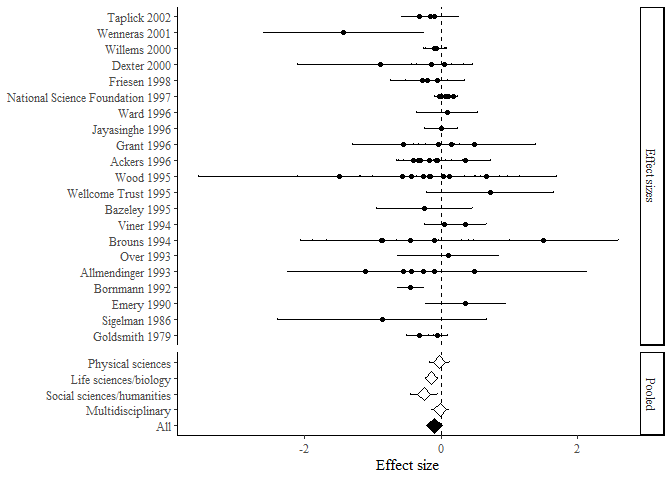
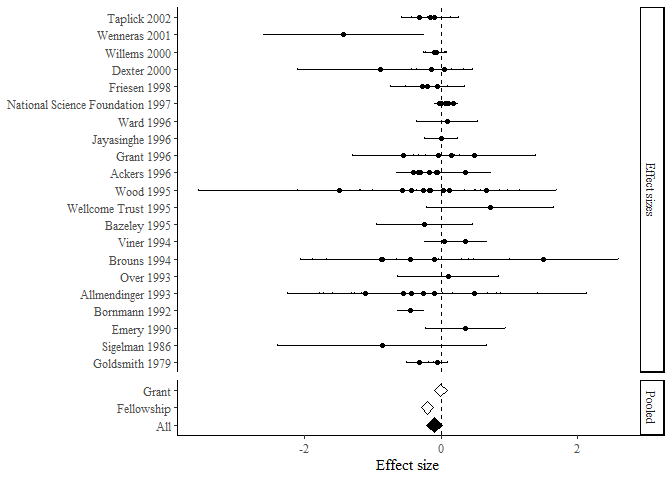
update readme

diff --git a/README.md b/README.md
@@ -108,11 +108,11 @@ Moderation with msemtools
 -------------------------
 
 To run moderation with msemtools, covariates must be set up as factors.
-Let’s look at Discipline
+Let’s look at Type
 
 ``` r
 #set up factors
-is.factor(example_data$Discipline)
+is.factor(example_data$Type)
 ```
 
     ## [1] TRUE
@@ -121,19 +121,17 @@ This is already a factor so we’re ready to go.
 
 ``` r
 moderation_object = model0 %>% 
-  moderate(Discipline)
+  moderate(Type)
 moderation_object
 ```
 
-    ## # A tibble: 6 x 19
-    ##   moderation model.name     k     n estimate      SE  lbound   ubound
-    ## * <chr>      <chr>      <dbl> <dbl>    <dbl>   <dbl>   <dbl>    <dbl>
-    ## 1 Baseline   Baseline      21    66  -0.101   0.0401  -0.179  -0.0221
-    ## 2 Discipline Discipline    21    66  NA      NA       NA      NA     
-    ## 3 Discipline Physical ~     5    14  -0.0239  0.0765  -0.174   0.126 
-    ## 4 Discipline Life scie~    12    26  -0.141   0.0439  -0.227  -0.0549
-    ## 5 Discipline Social sc~     5    13  -0.252   0.102   -0.451  -0.0525
-    ## 6 Discipline Multidisc~     5    13  -0.0147  0.0639  -0.140   0.110 
+    ## # A tibble: 4 x 19
+    ##   moderation model.name     k     n  estimate      SE   lbound   ubound
+    ## * <chr>      <chr>      <dbl> <dbl>     <dbl>   <dbl>    <dbl>    <dbl>
+    ## 1 Baseline   Baseline      21    66  -0.101    0.0401  -0.179   -0.0221
+    ## 2 Type       Type          21    66  NA       NA       NA       NA     
+    ## 3 Type       Grant         13    40  -0.00661  0.0371  -0.0793   0.0661
+    ## 4 Type       Fellowship    11    26  -0.202    0.0399  -0.280   -0.124 
     ## # ... with 11 more variables: I2_2 <dbl>, I2_3 <dbl>, slope <lgl>,
     ## #   slope_se <lgl>, slope_lbound <lgl>, slope_ubound <lgl>, R2_2 <dbl>,
     ## #   R2_3 <dbl>, Mx_status <int>, `anova p-value` <dbl>, type <chr>
